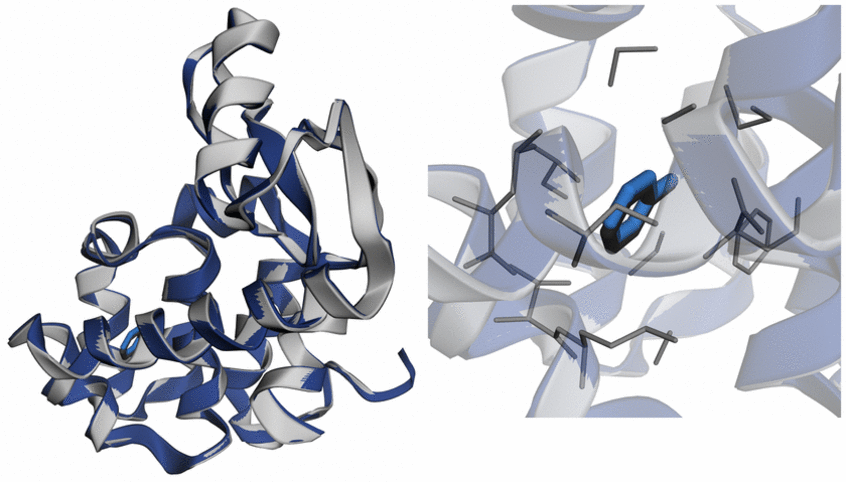
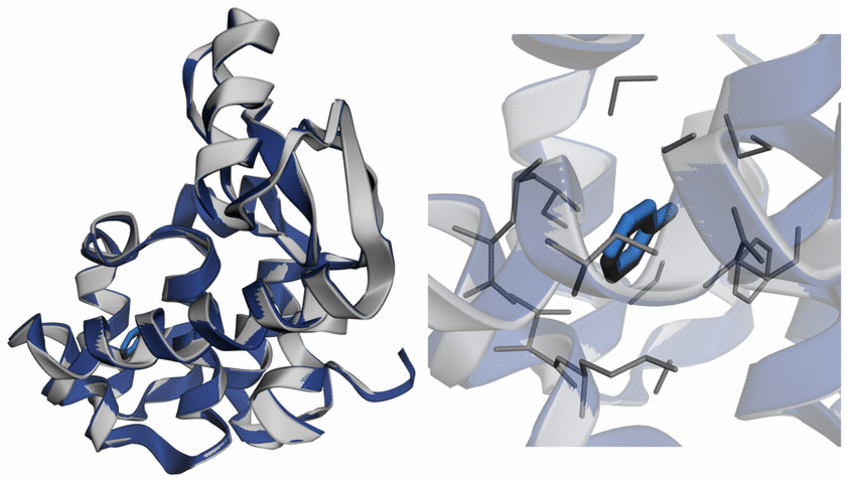
fix: the two lysozyme panels ended at different heights
Each panel is trimmed to its own content, so they came out 420x479 and
420x420. A plain +append aligns tops, which left the close-up's frame ending
59 pixels above the other and the composite with a ragged bottom.

Added -background white -gravity center, which pads the shorter panel to the
taller one's height and centres it. Both panels are now 420x479 within the
composite and their frames line up.

Noted it on the montage command, since anyone composing two trimmed renders
will hit the same thing.

Changed region(s): [[0.4917, 0.0, 1.0, 0.9336]]

diff --git a/README.md b/README.md
@@ -289,13 +289,18 @@ pixi run -e openfold3-cuda12 python figures/render_figure.py super \
     quickstart_cofold/pdb_7L39/seed_42/pdb_7L39_seed_42_sample_1_model.cif figures/7l39.cif \
     figures/lyso_right.png --focus LIG0 --focus-ref MBN --zoom 0.62 --width 420 --canvas 1000x1000
 
-convert figures/lyso_left.png figures/lyso_right.png +append \
+convert figures/lyso_left.png figures/lyso_right.png \
+    -background white -gravity center +append \
     -resize 846x -colors 256 -strip figures/lysozyme_toluene.png
 ```
 
 Both panels name the crystal's copy of the ligand explicitly, as `--ref-ligand` or
 `--focus-ref`, because the two files call the same molecule different things: `LIG0` in the
 prediction, `MBN` in the crystal. Without naming it, only the predicted copy is drawn.
+
+`-gravity center` on the montage matters: the two renders are trimmed to their own content
+and come out different heights, so a plain `+append` aligns their tops and leaves the frames
+ending at different levels.
 
 Only the close-up is translucent. Transparency is the only way to see into a buried cavity,
 but 3Dmol blends it toward the white background, which costs the navy-against-grey contrast
